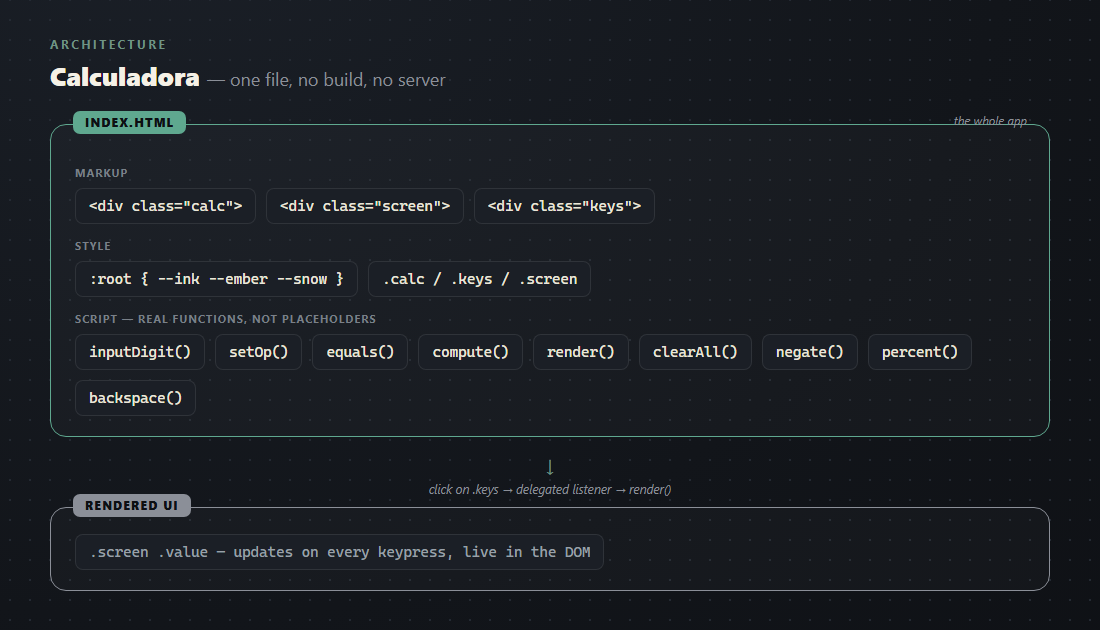
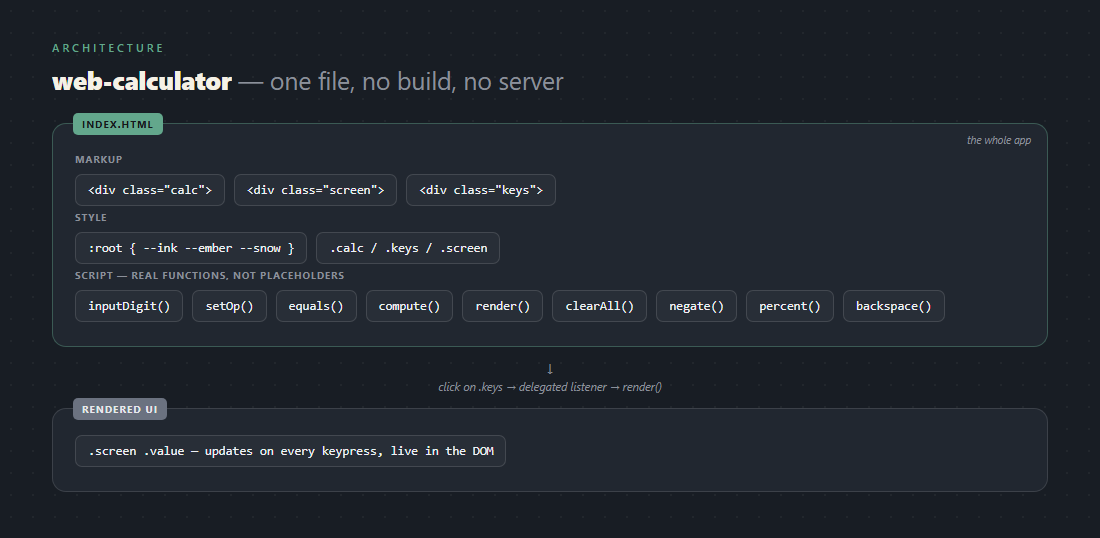
Redraw the architecture diagram and fix the old name in alt text
The diagram title and two image alt texts still said Calculadora after the
repo rename.

diff --git a/README.md b/README.md
@@ -10,7 +10,7 @@ A single-file calculator built as a self-contained web page.
 
 ## Showcase
 
-![Calculadora running in a browser, mid-calculation: 8 times 4 shown as 32](./docs/screenshot.png)
+![Calculator running in a browser, mid-calculation: 8 times 4 shown as 32](./docs/screenshot.png)
 
 *Real screenshot — the buttons were actually pressed (8 × 4 =) and this is the actual result on
 screen, not a mockup.*
@@ -26,7 +26,7 @@ Open `index.html` in any browser. That's it.
 
 ## Architecture
 
-![Calculadora architecture: the buttons in index.html feed the inline script, which updates the display in the DOM](./docs/architecture.png)
+![Calculator architecture: the buttons in index.html feed the inline script, which updates the display in the DOM](./docs/architecture.png)
 
 See [ARCHITECTURE.md](./ARCHITECTURE.md) for how it's structured and what it demonstrates.
 

diff --git a/ARCHITECTURE.md b/ARCHITECTURE.md
@@ -10,7 +10,7 @@ Type a number, pick an operation, type another number, hit equals, and it comput
 the result; `AC` resets, `±` flips the sign of whatever's on screen, `%` converts the current value
 to a percentage.
 
-![Calculadora architecture: the buttons in index.html feed the inline script, which updates the display in the DOM](./docs/architecture.png)
+![Calculator architecture: the buttons in index.html feed the inline script, which updates the display in the DOM](./docs/architecture.png)
 
 **Why vanilla JavaScript, no framework**: a single screen with a dozen buttons and one piece of
 state (the current expression) doesn't need a framework's overhead — React or Vue would add a
